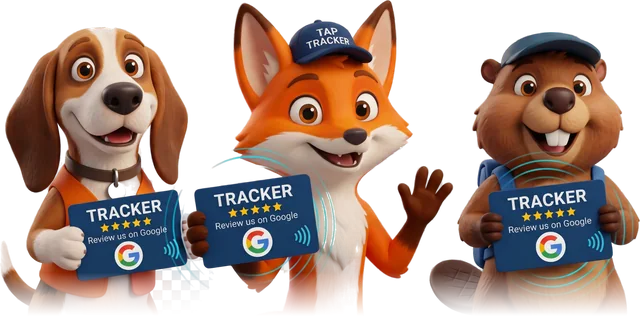
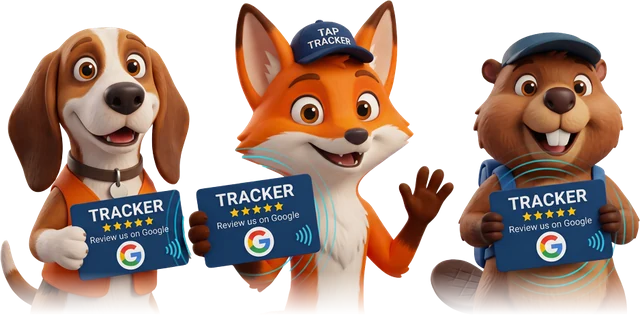
Footer mascots: replace with new transparent artwork
Claude-Session: https://claude.ai/code/session_01RWCRY8G1xdCykhw4WPtGmZ

diff --git a/es/index.html b/es/index.html
@@ -1501,7 +1501,7 @@ html.cm-lock{overflow:hidden}
         <a class="btn ft-b2" id="ftMail" href="mailto:info@taptrackertx.com?subject=Tap%20Tracker"><svg viewBox="0 0 24 24" aria-hidden="true"><rect x="3" y="5" width="18" height="14" rx="3"/><path d="M4 7l8 6 8-6"/></svg><span data-i18n="ft_b2">Escríbenos</span></a>
       </div>
       <figure class="ft-mascots">
-        <img src="https://taptrackertx.com/tap-tracker-mascots.webp" srcset="https://taptrackertx.com/tap-tracker-mascots-640.webp 640w, https://taptrackertx.com/tap-tracker-mascots.webp 1200w" sizes="(min-width: 760px) 640px, 92vw" width="1200" height="593" loading="lazy" decoding="async" data-i18n-alt="ft_mascots_alt" alt="Mascotas de Tap Tracker con tarjetas NFC de reseñas de Google">
+        <img src="https://taptrackertx.com/tap-tracker-mascots.webp?v=2" srcset="https://taptrackertx.com/tap-tracker-mascots-640.webp?v=2 640w, https://taptrackertx.com/tap-tracker-mascots.webp?v=2 938w" sizes="(min-width: 760px) 640px, 92vw" width="938" height="463" loading="lazy" decoding="async" data-i18n-alt="ft_mascots_alt" alt="Mascotas de Tap Tracker con tarjetas NFC de reseñas de Google">
       </figure>
     </div>
     <div class="ft-grid">

diff --git a/index.html b/index.html
@@ -1501,7 +1501,7 @@ html.cm-lock{overflow:hidden}
         <a class="btn ft-b2" id="ftMail" href="mailto:info@taptrackertx.com?subject=Tap%20Tracker"><svg viewBox="0 0 24 24" aria-hidden="true"><rect x="3" y="5" width="18" height="14" rx="3"/><path d="M4 7l8 6 8-6"/></svg><span data-i18n="ft_b2">Email us</span></a>
       </div>
       <figure class="ft-mascots">
-        <img src="https://taptrackertx.com/tap-tracker-mascots.webp" srcset="https://taptrackertx.com/tap-tracker-mascots-640.webp 640w, https://taptrackertx.com/tap-tracker-mascots.webp 1200w" sizes="(min-width: 760px) 640px, 92vw" width="1200" height="593" loading="lazy" decoding="async" data-i18n-alt="ft_mascots_alt" alt="Tap Tracker mascots holding NFC Google review cards">
+        <img src="https://taptrackertx.com/tap-tracker-mascots.webp?v=2" srcset="https://taptrackertx.com/tap-tracker-mascots-640.webp?v=2 640w, https://taptrackertx.com/tap-tracker-mascots.webp?v=2 938w" sizes="(min-width: 760px) 640px, 92vw" width="938" height="463" loading="lazy" decoding="async" data-i18n-alt="ft_mascots_alt" alt="Tap Tracker mascots holding NFC Google review cards">
       </figure>
     </div>
     <div class="ft-grid">
